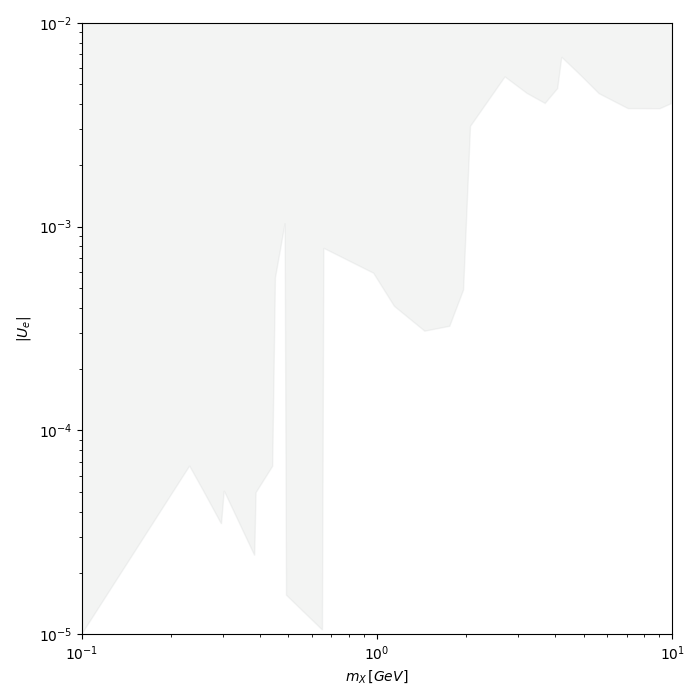
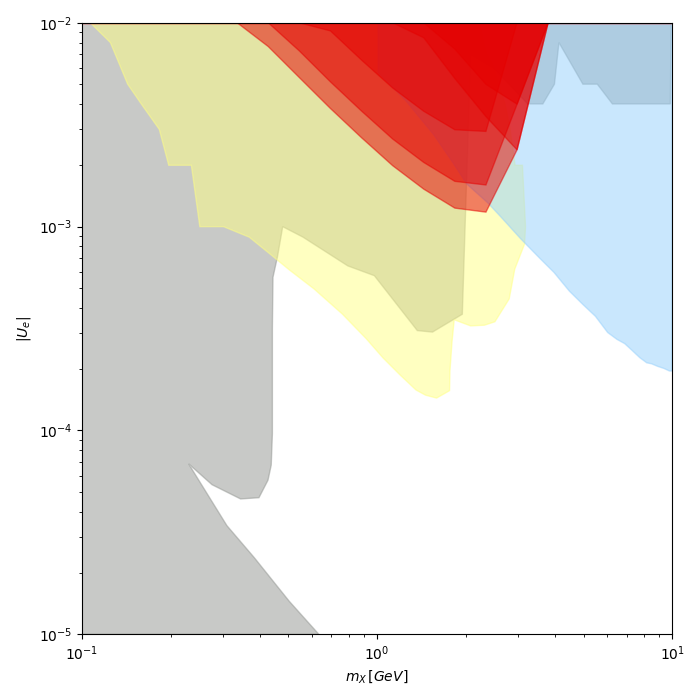
first limit setting possible

diff --git a/main.py b/main.py
@@ -2,7 +2,10 @@ from ExclusionPlot import *
 from Limit import *
 from Function import *
 from Model import *
+from Utils import *
 from collections import OrderedDict
+from scipy import optimize
+import numpy as np
 
 #_______________________________________________________________________________
 def main():
@@ -10,39 +13,104 @@ def main():
 
     ## ns in the number of Bhadrons produced in the whole detector after some triggering (ie Bparking)
     ## eff is the acceptance efficiency in some fiducial eta region (e.g nose)
-    model = MajoranaNeutrinoElectron(mass=2., couplingSquared=1.e-05,
-                                     ns=1.e13, eff=0.1)
 
-    model.compute_lifetime()
-    model.compute_branching_ratio('data/br_B0p_eXN.csv')
+    #model = MajoranaNeutrinoElectron(mass=2., coupling=1.e-05,
+    #                                 ns=1.e13, eff=0.1)
+
+    #model.compute_lifetime()
+    #model.compute_branching_ratio('data/br_BpD0str_eXN.csv')
 
     ## nose acceptance
-    model.event_yield(r_min=0.25, r_max=1.05,
-                      z_min=10., z_max=10.5,
-                      pt=5.)
-
-    ## initialize parameter grid
-    param_ranges = OrderedDict()
-
-    param_ranges['$m_X \, [GeV]$'] = (0.01, 7 , False) #min, max, log or not
-    param_ranges['$|U_e|^2$'] = (1e-03, 1e-08 , True) #tau_i
-
-
-
+    #model.event_yield(r_min=0.25, r_max=1.05,
+    #                  z_min=10., z_max=10.5,
+    #                  pt=5.)
 
 
     ep = ExclusionPlot(name='dummy', xlabel='$m_X \, [GeV]$', ylabel='$|U_e|$',
-                       xmin=1e-01, xmax=1e01, ymin=1.e-5, ymax=1.e-2,
+                       model='MajoranaNeutrinoElectron',
+                       xmin=1e-01, xmax=1e+01, ymin=1.e-5, ymax=1.e-2,
                        dimx=7, dimy=7, logy=True)
 
-    #funct_test = Function('test', 'data/br_B0p_eXN.csv')
-    #print(funct_test.eval(2.6))
+
+    #isolines = [100, 10, 3]
+    isolines = [100,10,3]
+    npoints = 20
+
+    ### B meson branching ratios
+    meson_br_B0 = 0.43
+    meson_br_Bp = 0.43
+    meson_br_Bs = 0.10
+    meson_br_Bc = 8.5e-04
+
+    class Parameters(object):
+        ns0=1.e15   ## number of bb pairs at HL-LHC
+        meson_br= meson_br_B0  ## fraction of Bmesons produced in particular mode
+        trigger_eff=0.01   ## B-parking / or whatever other cuts needed to trigger
+        eta_eff=0.1 ## acceptance for the Bmeson to go in particular direction
+
+        llp_br='data/br_BpD0str_eXN.csv'
+        r_min=0.25
+        r_max=1.05
+        z_min=10.
+        z_max=10.5
+        pt=10.
+        name='Nose'
+        color='red'
+        alpha=0.5
+
+    nose_limits_B0 = OrderedDict()
+    nose_limits_Bc = OrderedDict()
 
 
-    lim = Limit(name='present', color='silver', alpha=0.2)
-    lim.set_func(Function('ex_pres', 'data/une_present.csv'))
+    for target in isolines:
+        nose_limits_B0[target] = best_limit(ExclusionPlot=ep, parameters=Parameters,
+                                         target=target, npoints=npoints)
 
-    ep.add_limit(lim)
+
+    Parameters.meson_br = meson_br_Bc
+    Parameters.llp_br = 'data/br_Bc_eXN.csv'
+    Parameters.color = 'red'
+
+    for target in isolines:
+        nose_limits_Bc[target] = best_limit(ExclusionPlot=ep, parameters=Parameters,
+                                         target=target, npoints=npoints)
+
+    '''
+    model_class = globals()[ep.model]
+    model = model_class(Parameters, mass=2.9763514416313175, coupling=0.008)
+
+    model.compute_lifetime()
+    model.compute_branching_ratio(Parameters.llp_br)
+    model.event_yield(debug=True)
+    '''
+
+
+    ## inclusive limit from all experiments
+    lim_present = Limit(name='present', color='grey', alpha=0.5)
+    lim_present.set_func(Function('ex_pres', 'data/limit_HNL_UNe_present.csv'))
+
+    ## projected limit from FASER2
+    lim_faser = Limit(name='FASER', color='pale yellow', alpha=0.5)
+    lim_faser.set_func(Function('ex_pres', 'data/limit_HNL_UNe_FASER.csv'))
+
+    ### limit from CMS W->lN search (rescaled to HL-LHC)
+    lim_cms = Limit(name='CMS - WNe (HL-LHC)', color='light blue', alpha=0.5)
+    func = Function('ex_pres', 'data/limit_HNL_UNe_CMS_137invfb.csv')
+    func.pow_data(0.5) ## take sqrt to convert
+    func.scale_data(math.sqrt(137/3000)) ## take sqrt to convert
+    lim_cms.set_func(func)
+
+    ep.add_limit(lim_present)
+    ep.add_limit(lim_faser)
+    ep.add_limit(lim_cms)
+
+
+    for target in nose_limits_B0.keys():
+        ep.add_limit(nose_limits_B0[target])
+
+    for target in nose_limits_Bc.keys():
+        ep.add_limit(nose_limits_Bc[target])
+
     ep.plot()
 
 #_______________________________________________________________________________

diff --git a/Model.py b/Model.py
@@ -4,16 +4,24 @@ from abc import ABC,abstractmethod
 from Function import *
 import math
 
-debug=False
-
 class Model(ABC):
     #_______________________________________________________________________________
-    def __init__(self, mass=1., couplingSquared=1.e-06, ns=1.e10, eff=0.01):
+    def __init__(self, parameters, mass=1., coupling=1.e-06):
 
-        self.ns = ns
-        self.eff = eff
+        self.ns0 = parameters.ns0
+        self.trigger_eff = parameters.trigger_eff
+        self.meson_br = parameters.meson_br
+        self.eta_eff = parameters.eta_eff
+
+        self.r_min = parameters.r_min
+        self.r_max = parameters.r_max
+        self.z_min = parameters.z_min
+        self.z_max = parameters.z_max
+
+        self.pt = parameters.pt
+
         self.mass = mass
-        self.couplingSquared = couplingSquared
+        self.coupling = coupling
 
         self.tau = -1
         self.br = -1
@@ -21,15 +29,15 @@ class Model(ABC):
         super(Model, self).__init__()
 
     #_______________________________________________________________________________
-    def event_yield(self, r_min=0.25, r_max=1.05, z_min=10., z_max=10.5, pt=5.):
+    def event_yield(self, debug=False):
 
         ###FIX ME: for now r, z value are dummy, the accpetance in the nose region
         # is pre-computed, now this is used only to calculate eta
         # in the future require this method to compute from MC the real acceptance
         # in the nose
 
-        theta_min = math.atan(r_min/z_min)
-        theta_max = math.atan(r_max/z_max)
+        theta_min = math.atan(self.r_min/self.z_min)
+        theta_max = math.atan(self.r_max/self.z_max)
 
         eta_min = - math.log(math.tan(theta_min/2))
         eta_max = - math.log(math.tan(theta_max/2))
@@ -40,11 +48,11 @@ class Model(ABC):
         theta = p*theta_min + (1-p)*theta_max
 
         ## compute path length inside fiducial volume
-        l_min = z_min/math.cos(theta)
-        l_max = z_max/math.cos(theta)
+        l_min = self.z_min/math.cos(theta)
+        l_max = self.z_max/math.cos(theta)
 
         c=3.e+8
-        energy = pt*math.cosh(eta)
+        energy = self.pt*math.cosh(eta)
 
         gamma=energy/self.mass
         tau = self.tau
@@ -54,11 +62,16 @@ class Model(ABC):
         acceptance=math.exp(-l_min/gct) - math.exp(-l_max/gct)
 
         br = self.br
-        event_yield = self.ns * br * self.eff * acceptance
+        event_yield = self.ns0
+        event_yield *= self.meson_br
+        event_yield *= self.trigger_eff
+        event_yield *= self.eta_eff
+        event_yield *= br
+        event_yield *= acceptance
 
         if debug:
             print ('mass          =   {:.3f} '.format(self.mass))
-            print ('couplingSq    =   {:.2e} '.format(self.couplingSquared))
+            print ('coupling      =   {:.2e} '.format(self.coupling))
             print ('eta_min       =   {:.3f} '.format(eta_min))
             print ('eta_max       =   {:.3f} '.format(eta_max))
             print ('l_min         =   {:.3f} m'.format(l_min))
@@ -69,11 +82,14 @@ class Model(ABC):
             print ('ctau          =   {:.3f} m'.format(c*tau))
             print ('gamma*c*tau   =   {:.3f} m'.format(gct))
             print ('----------------------------------------------------------')
-            print ('number of S.  =   {:.2e} '.format(self.ns))
+            print ('number of S.  =   {:.2e} '.format(self.ns0))
+            print ('meson BR      =   {:.2e} '.format(self.meson_br))
+            print ('trigger eff   =   {:.2e} '.format(self.trigger_eff))
+            print ('eta_eff       =   {:.2e} '.format(self.eta_eff))
             print ('br. ratio     =   {:.2e} '.format(br))
-            print ('efficiency    =   {:.2e} '.format(self.eff))
             print ('acceptance    =   {:.2e} '.format(acceptance))
             print ('ev.  yield    =   {:.2e} '.format(event_yield))
+
 
         return event_yield
 
@@ -93,8 +109,8 @@ class Model(ABC):
 class MajoranaNeutrinoElectron(Model):
 
     def compute_lifetime(self):
-        self.tau = 1.e-12/self.mass**5/self.couplingSquared
+        self.tau = 1.e-12/self.mass**5/self.coupling**2
 
     def compute_branching_ratio(self, data_file):
         br_vs_m = Function('br_b0', data_file)
-        self.br = self.couplingSquared * br_vs_m.eval(self.mass)
+        self.br = br_vs_m.eval(self.mass) * self.coupling**2

diff --git a/Function.py b/Function.py
@@ -16,18 +16,23 @@ class Function(object):
         if path.exists(file):
             with open(file) as csvfile:
                 ## skip header
-                next(csvfile)
-                reader = csv.reader(csvfile, delimiter=',', quotechar='"')
+                #next(csvfile)
+                reader = csv.reader(csvfile, delimiter='\t', quotechar='"')
                 id = 0
                 for data in reader:
+                    #print (data)
                     self.x.append(float(data[0]))
                     self.y.append(float(data[1]))
 
 
     #_______________________________________________________________________________
     def eval(self, x):
-        tck = interpolate.splrep(self.x, self.y)
-        val =  interpolate.splev(x, tck)
+
+        val=0
+        if x <= max(self.x) and x >= min(self.x):
+            f = interpolate.interp1d(self.x, self.y, kind='cubic')
+            val = f(x)
+
         return val
 
     #_______________________________________________________________________________
@@ -42,8 +47,21 @@ class Function(object):
         yr = []
 
         for x, y in zip(self.x,self.y):
-            xr.append(x*scale)
+            xr.append(x)
             yr.append(y*scale)
+
+        self.x = xr
+        self.y = yr
+
+#_______________________________________________________________________________
+    def pow_data(self, power=1.0):
+
+        xr = []
+        yr = []
+
+        for x, y in zip(self.x,self.y):
+            xr.append(x)
+            yr.append(y**power)
 
         self.x = xr
         self.y = yr

diff --git a/ExclusionPlot.py b/ExclusionPlot.py
@@ -9,6 +9,7 @@ class ExclusionPlot(object):
     #_______________________________________________________________________________
     def __init__(self, name='dummy', xlabel='xlabel', ylabel='ylabel',
                  xmin=0.0, xmax=10.0, ymin=1.e-3, ymax=1.e-1,
+                 model='MajoranaNeutrinoElectron',
                  dimx=7, dimy=5,
                  logx=True, logy=True):
 
@@ -30,28 +31,12 @@ class ExclusionPlot(object):
         self.logx = logx
         self.logy = logy
 
+        self.model = model
+
     #_______________________________________________________________________________
     def add_limit(self, limit):
-
-
-        x_data = limit.x_data
-        y_data = limit.y_data
-
-        x_data.append(10)
-        y_data.append(0.01)
-        x_data.append(0.1)
-        y_data.append(0.01)
-        x_data.append(0.1)
-        y_data.append(0.00001)
-
-        print(x_data)
-        print(y_data)
-
-
-        self.ax.fill(x_data, y_data,
-                             color=limit.color,  alpha=limit.alpha)
-
-        #self.ax.scatter(limit.x_data, limit.y_data, color='r')
+        self.ax.fill(limit.x_data, limit.y_data,
+                     color=limit.color,  alpha=limit.alpha)
 
     #_______________________________________________________________________________
     def plot(self):
